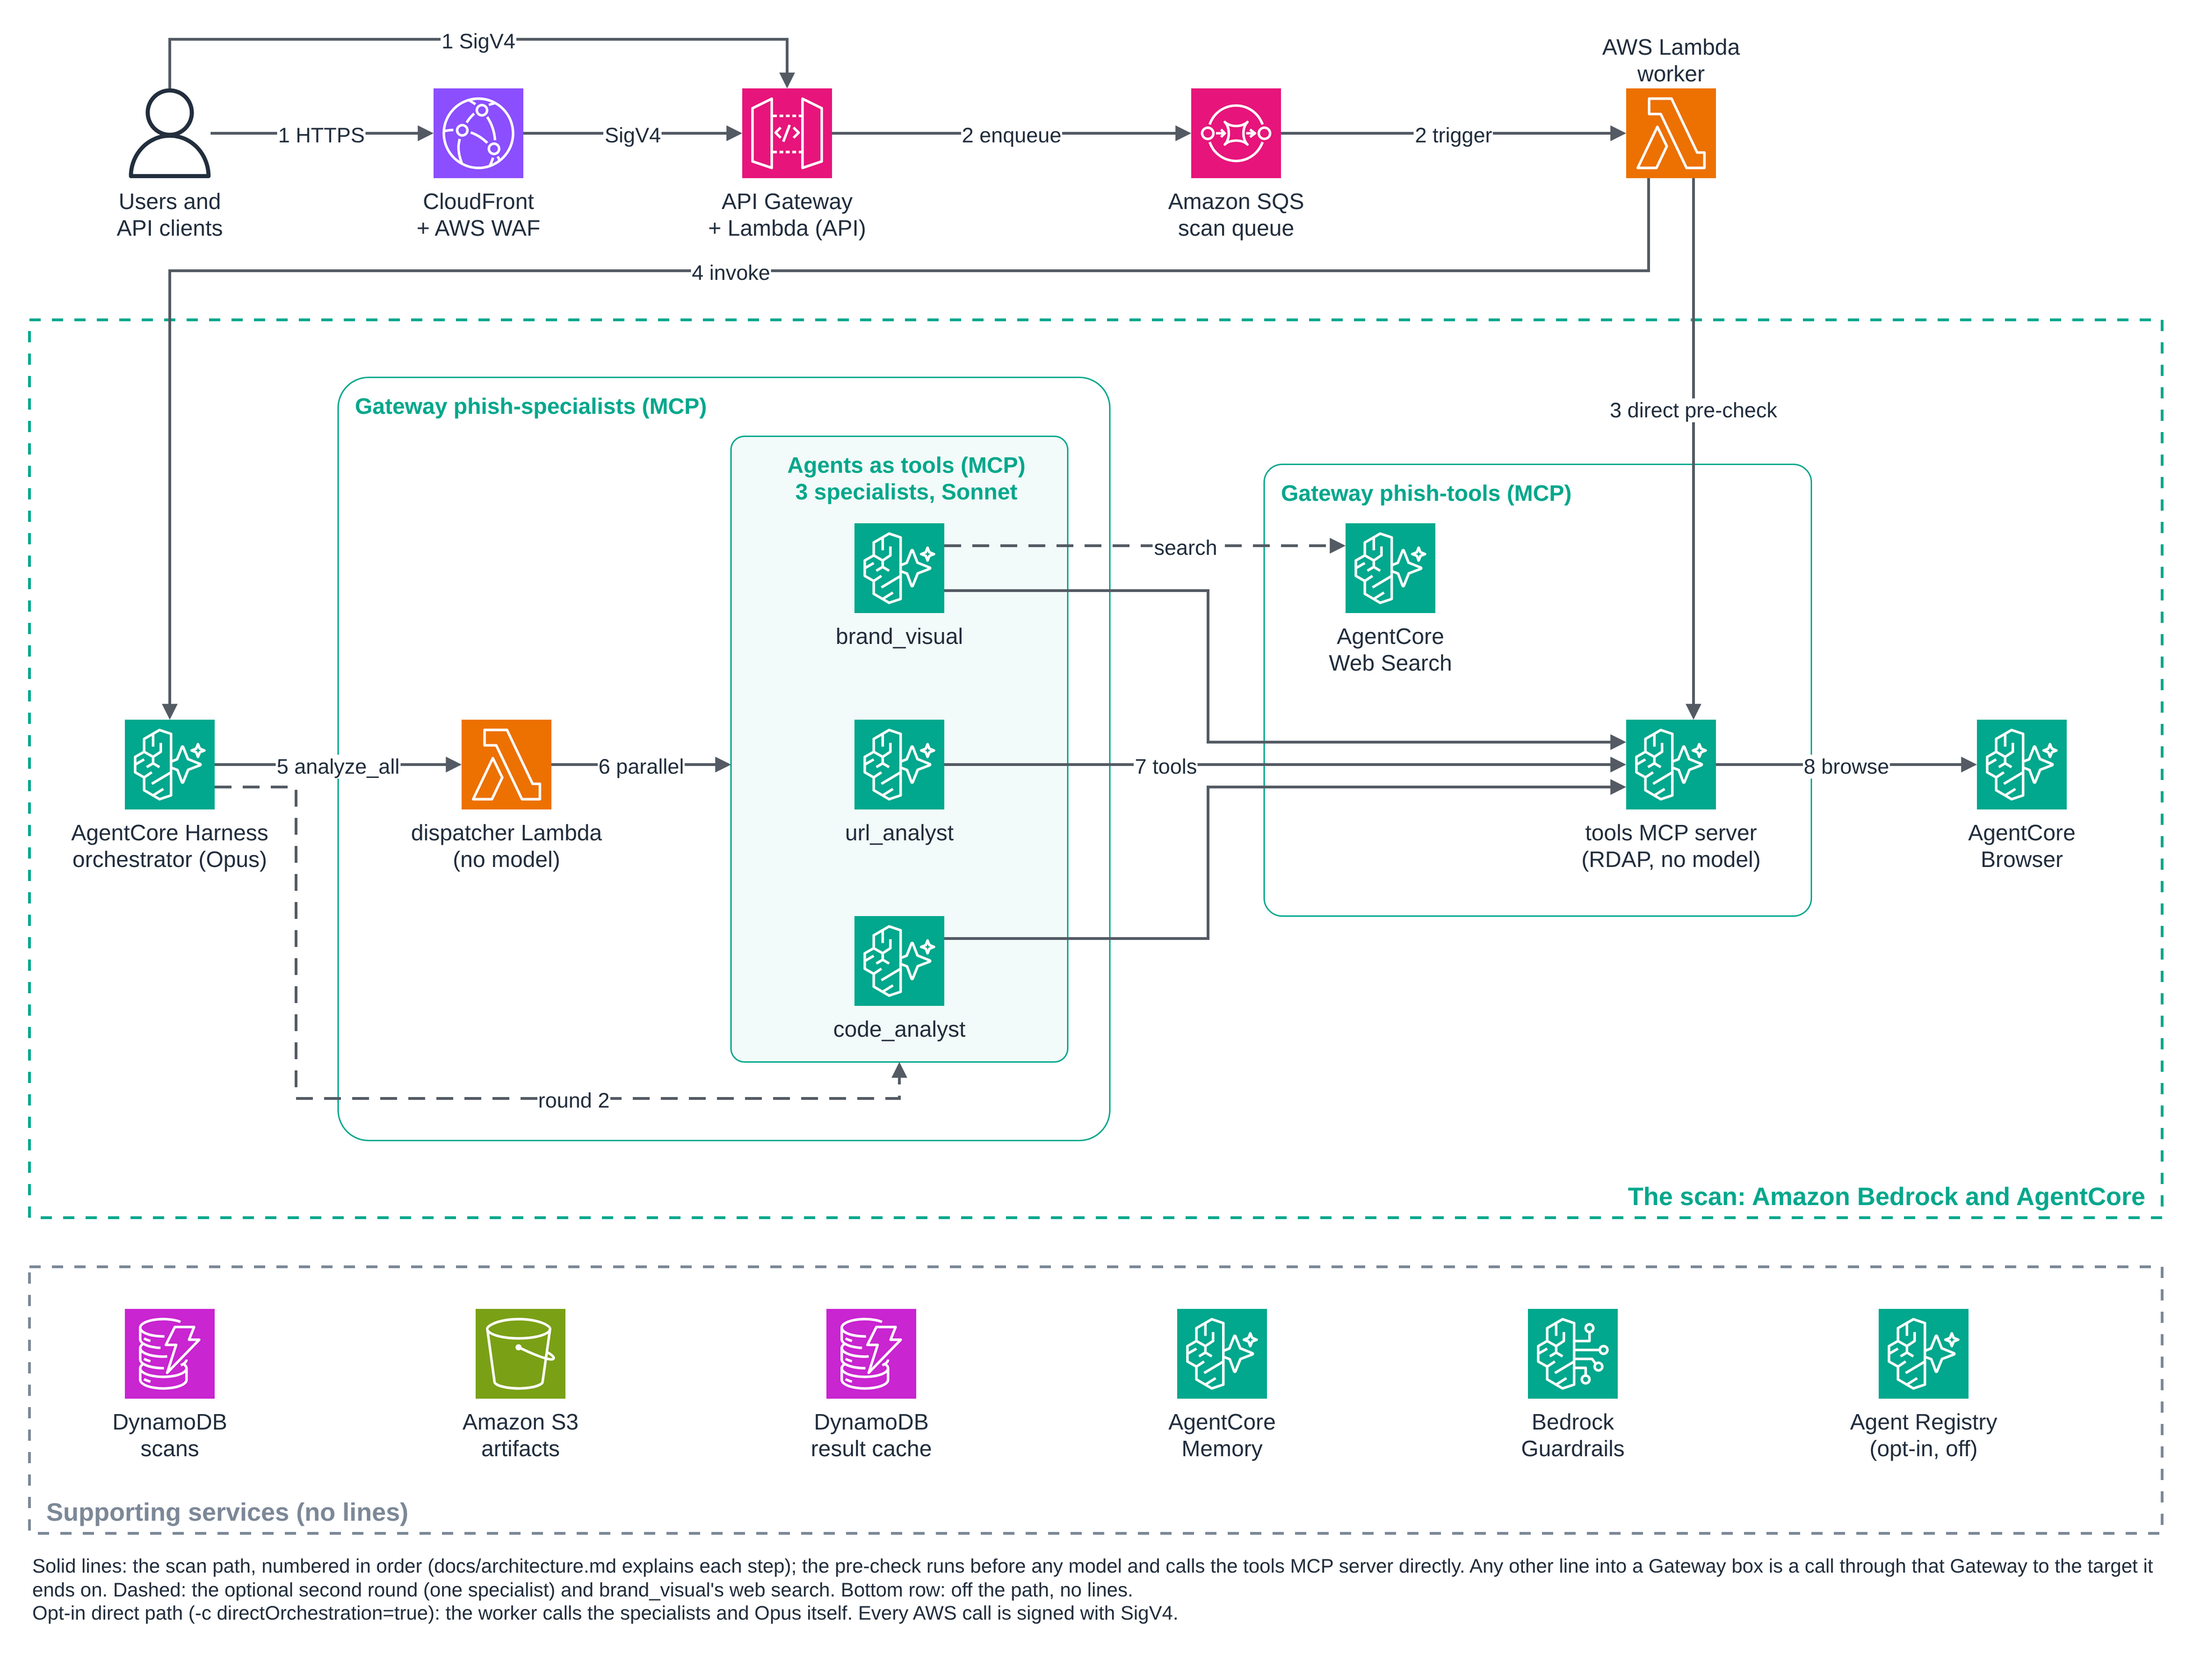
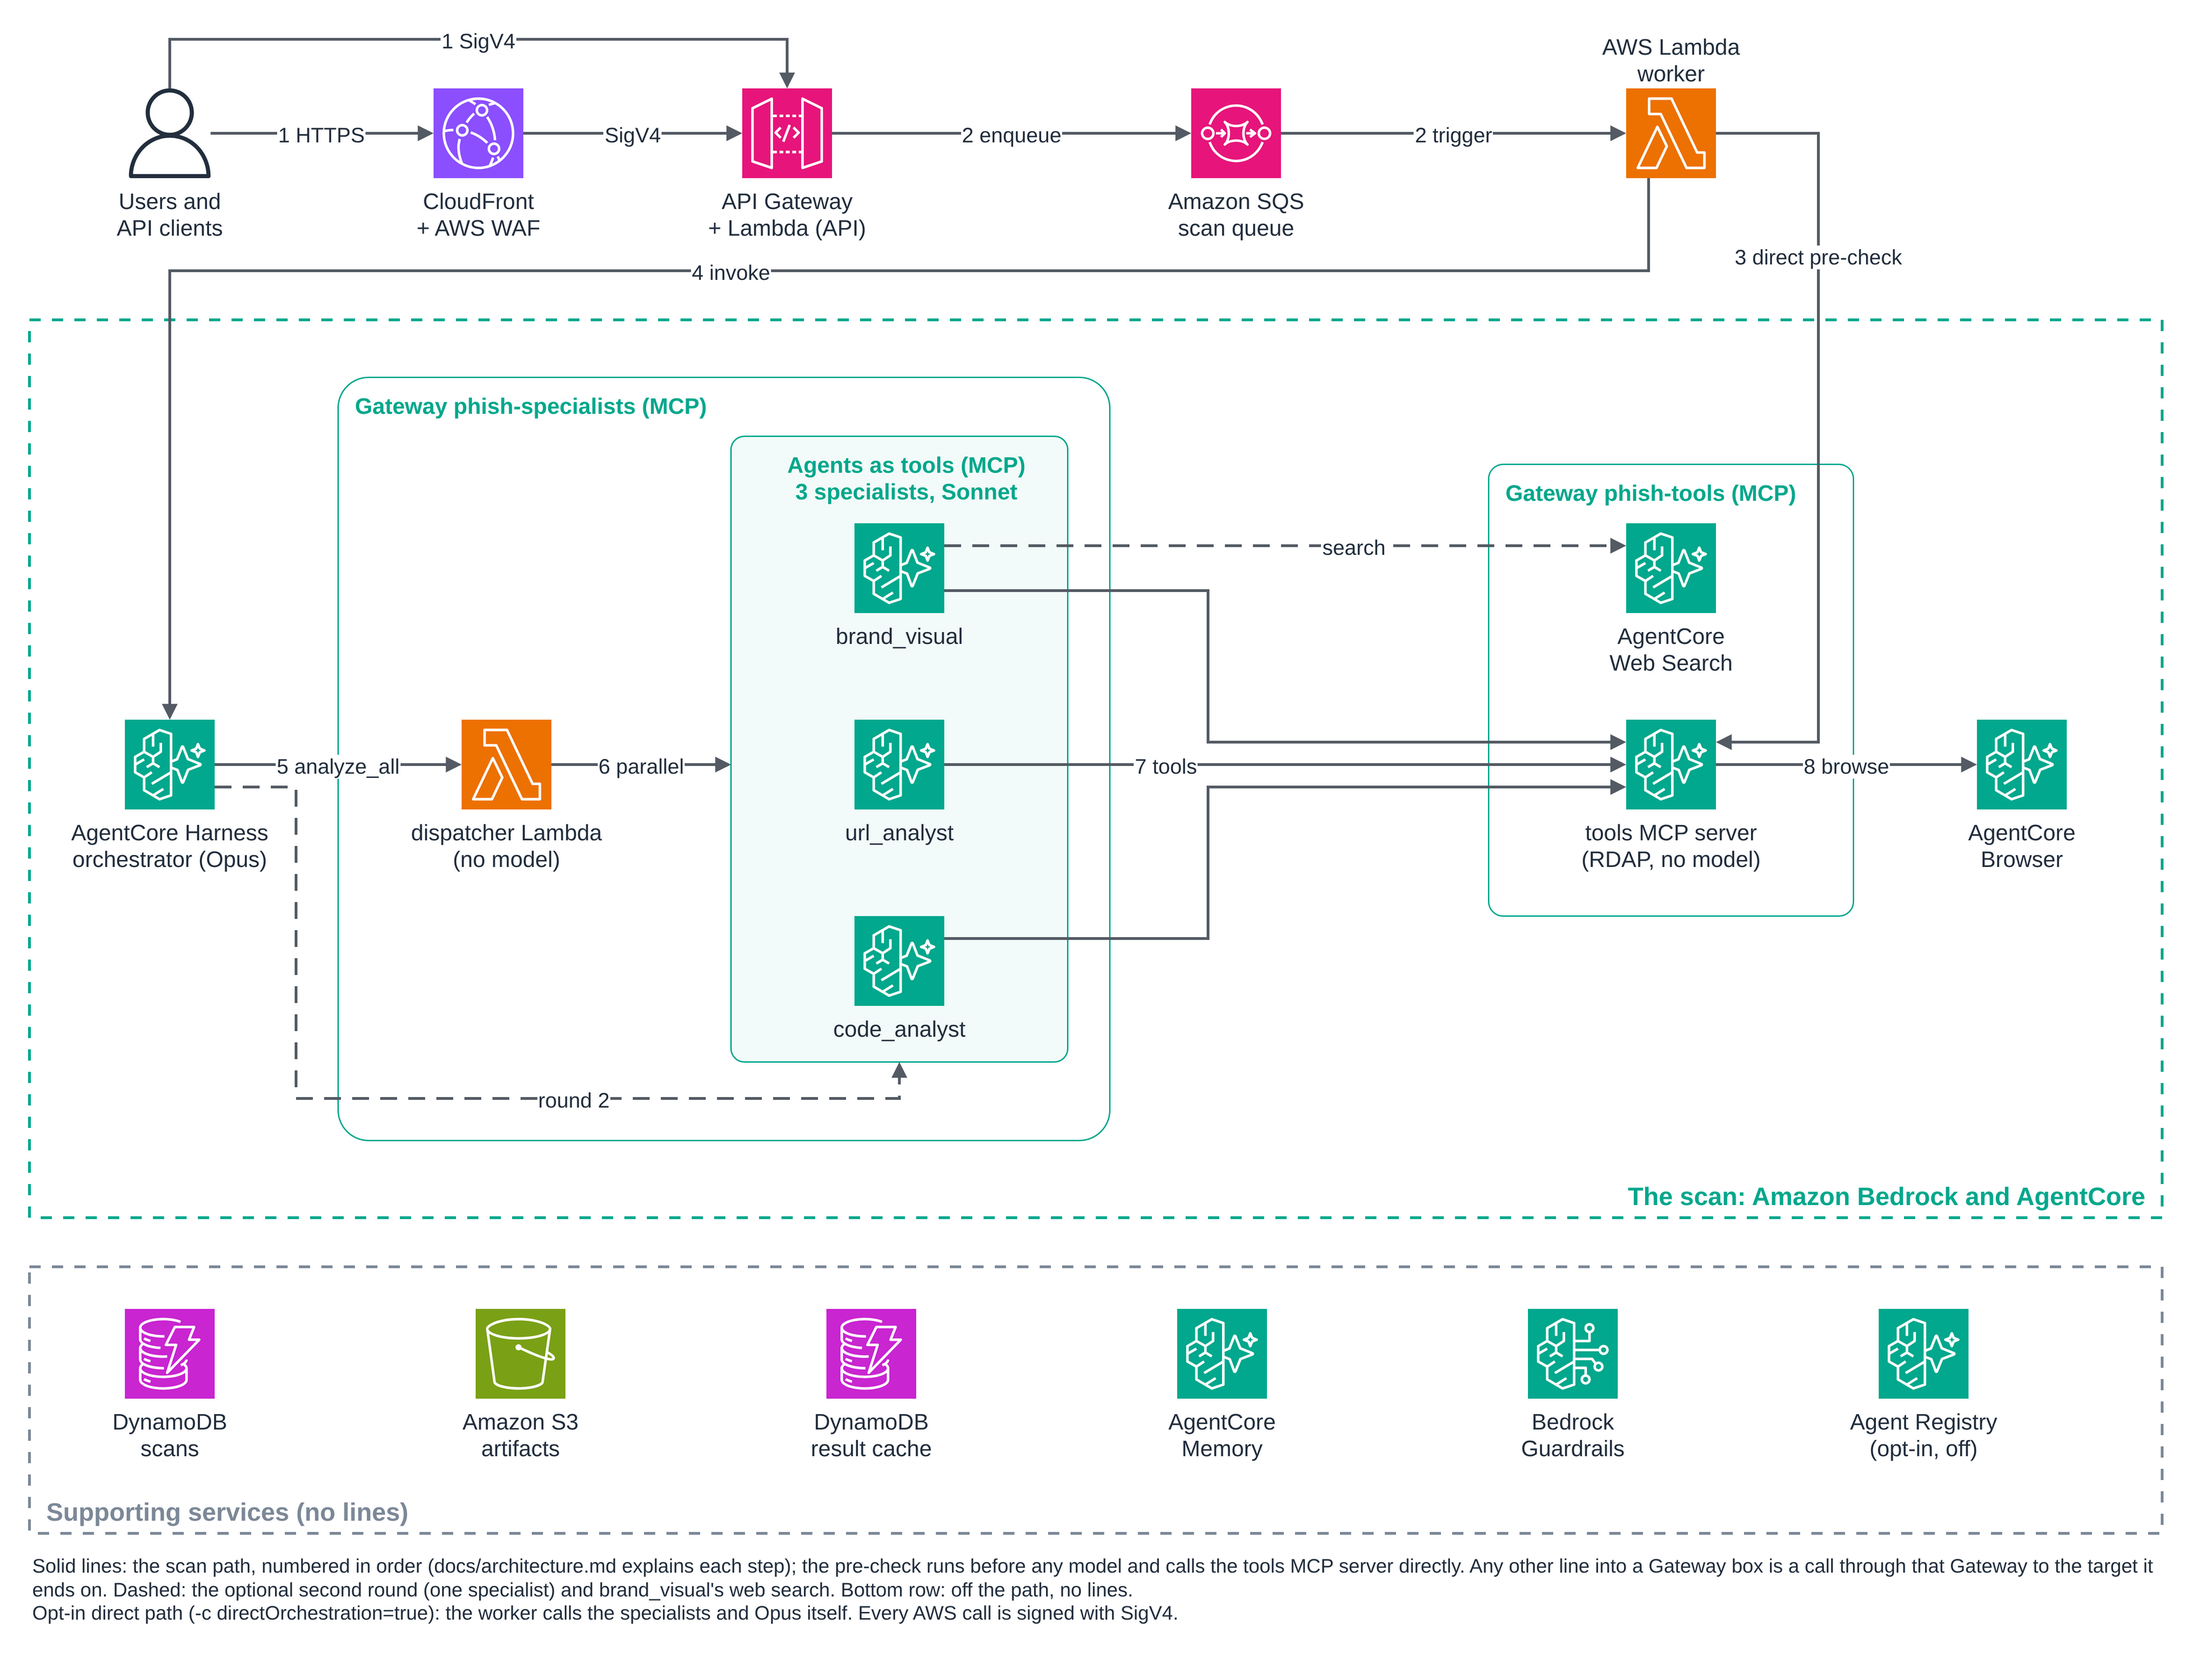
docs: stack web search above the tools MCP server; shorter README intro (#16)
The phish-tools Gateway box now stacks AgentCore Web Search above the
tools MCP server, as the specialists are stacked, and the pre-check runs
down the column's right side. The README opening is two sentences.

Changed region(s): [[0.5896, 0.2477, 0.8378, 0.4334], [0.8068, 0.1548, 0.8378, 0.1858], [0.5275, 0.3096, 0.5585, 0.3405]]

diff --git a/docs/diagram/build_architecture.py b/docs/diagram/build_architecture.py
@@ -63,12 +63,14 @@ COLOR = {
 # targets inside, and a line that crosses a Gateway box border is a call through that Gateway.
 # The scan row runs left to right in step order: Harness, Gateway phish-specialists (the
 # dispatcher Lambda target and the three specialist agents, exposed as MCP tools), Gateway
-# phish-tools (the tools MCP server and AgentCore Web Search), AgentCore Browser. The worker sits
-# above the tools MCP server, so the pre-check drops straight down; its Harness line runs left in
-# its own lane. Every explanation lives in the numbered steps in docs/architecture.md, so line
-# labels stay at three words or fewer.
+# phish-tools (AgentCore Web Search stacked above the tools MCP server, as the specialists are
+# stacked), AgentCore Browser. The worker sits above that column; the pre-check runs down its
+# right side into the tools MCP server, and its Harness line runs left in its own lane. Every
+# explanation lives in the numbered steps in docs/architecture.md, so line labels stay at three
+# words or fewer.
 X_HARNESS, X_DISP, X_SPEC = 120, 360, 640  # icon centers on the scan row
-X_WS, X_TOOLS, X_BROWSER = 990, 1190, 1440
+X_TOOLS, X_BROWSER = 1190, 1440  # web search sits above the tools MCP server
+X_PRECHECK = X_TOOLS + 105  # the pre-check drop: right of the Gateway label, inside its box
 ROW1 = 80  # request path icon tops
 SPEC_PITCH = 140  # vertical pitch of the three specialists
 ROWM = 530  # the scan row (middle specialist) icon top
@@ -107,7 +109,7 @@ GROUPS = [
 SPEC_BOX = (X_SPEC - 120, ROW_UP - 62, 240, 2 * SPEC_PITCH + ICON + 62 + 40)
 GW_SPEC = (X_DISP - 120, SPEC_BOX[1] - 42, SPEC_BOX[0] + SPEC_BOX[2] + 30 - (X_DISP - 120), 0)
 GW_SPEC = (*GW_SPEC[:3], LANE_ROUND2 + 30 - GW_SPEC[1])
-GW_TOOLS = (X_WS - 90, ROW_UP - 42, X_TOOLS + 100 - (X_WS - 90), ROWM + ICON + 76 - (ROW_UP - 42))
+GW_TOOLS = (X_TOOLS - 130, ROW_UP - 42, 260, ROWM + ICON + 76 - (ROW_UP - 42))
 BOXES = [
     ("gw_spec", "Gateway phish-specialists (MCP)", *GW_SPEC, "#FFFFFF", "left"),
     ("gw_tools", "Gateway phish-tools (MCP)", *GW_TOOLS, "#FFFFFF", "left"),
@@ -138,7 +140,7 @@ NODES = {
     "rt_brand": ("brand_visual", "bedrock_agentcore", "ml", at(X_SPEC), ROW_UP),
     "rt_url": ("url_analyst", "bedrock_agentcore", "ml", at(X_SPEC), ROWM),
     "rt_code": ("code_analyst", "bedrock_agentcore", "ml", at(X_SPEC), ROW_DOWN),
-    "websearch": ("AgentCore\nWeb Search", "bedrock_agentcore", "ml", at(X_WS), ROW_UP),
+    "websearch": ("AgentCore\nWeb Search", "bedrock_agentcore", "ml", at(X_TOOLS), ROW_UP),
     "tools": ("tools MCP server\n(RDAP, no model)", "bedrock_agentcore", "ml", at(X_TOOLS), ROWM),
     "browser": ("AgentCore\nBrowser", "bedrock_agentcore", "ml", at(X_BROWSER), ROWM),
     # Supporting services: no lines; the steps in docs/architecture.md say who uses each.
@@ -186,7 +188,15 @@ EDGES = {
     "cf_api": ("cf", "api", (1, 0.5), (0, 0.5), [], "SigV4"),
     "api_sqs": ("api", "sqs", (1, 0.5), (0, 0.5), [], "2 enqueue"),
     "sqs_worker": ("sqs", "worker", (1, 0.5), (0, 0.5), [], "2 trigger"),
-    "worker_precheck": ("worker", "tools", (0.75, 1), (0.75, 0), [], "3 direct pre-check", -0.15),
+    "worker_precheck": (
+        "worker",
+        "tools",
+        (1, 0.5),
+        (1, 0.25),
+        [(X_PRECHECK, ROW1 + ICON / 2), (X_PRECHECK, ROWM + ICON / 4)],
+        "3 direct pre-check",
+        -0.45,
+    ),
     "worker_harness": (
         "worker",
         "harness",

diff --git a/README.md b/README.md
@@ -1,6 +1,6 @@
 # Agentic Phishing URL Detection on Amazon Bedrock AgentCore
 
-**Paste a link and get an explained phishing verdict in about a minute.** Three specialist agents check the link, the page and the page's code at the same time in an isolated cloud browser. An orchestrator agent weighs their evidence, gives you the verdict first and then writes a plain-language report. Everything runs in your own AWS account.
+**Paste a link and get an explained phishing verdict in about a minute.** Three AI agents inspect the link, how the page looks and what its code does, all at once in an isolated cloud browser; a fourth agent weighs their evidence and gives you a verdict with a plain-language report, all inside your own AWS account.
 
 ![License: MIT-0](https://img.shields.io/badge/license-MIT--0-green) ![Python 3.13](https://img.shields.io/badge/python-3.13-blue) ![AWS CDK](https://img.shields.io/badge/IaC-AWS%20CDK%20%28Python%29-orange) ![Amazon Bedrock AgentCore](https://img.shields.io/badge/Amazon%20Bedrock-AgentCore-01A88D) ![Strands Agents](https://img.shields.io/badge/agents-Strands-blueviolet)
 
